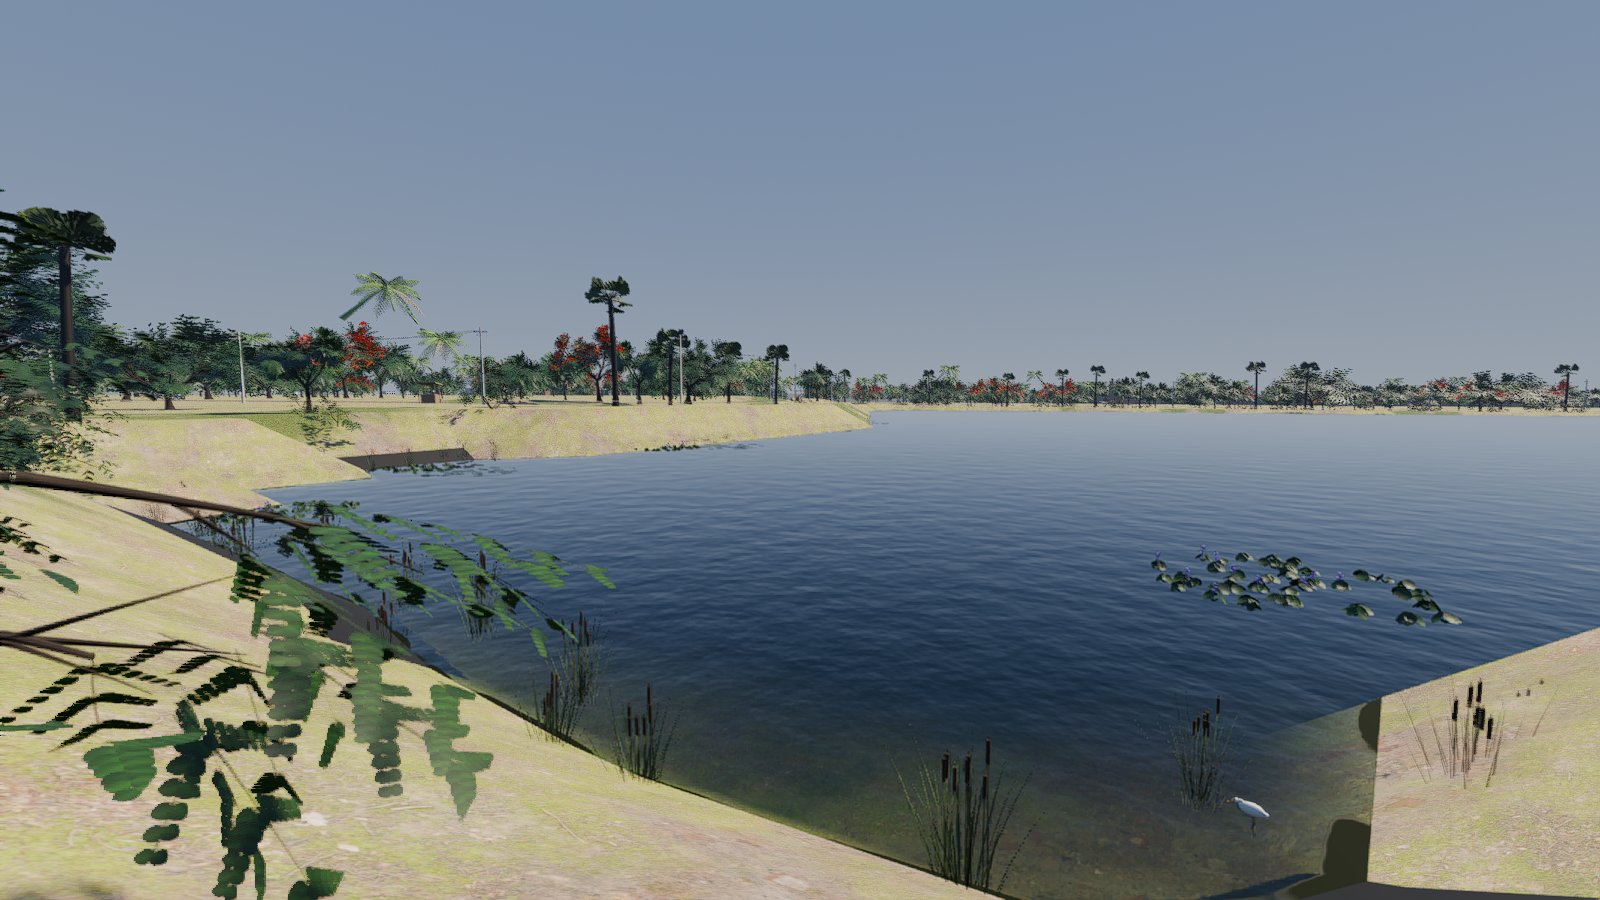
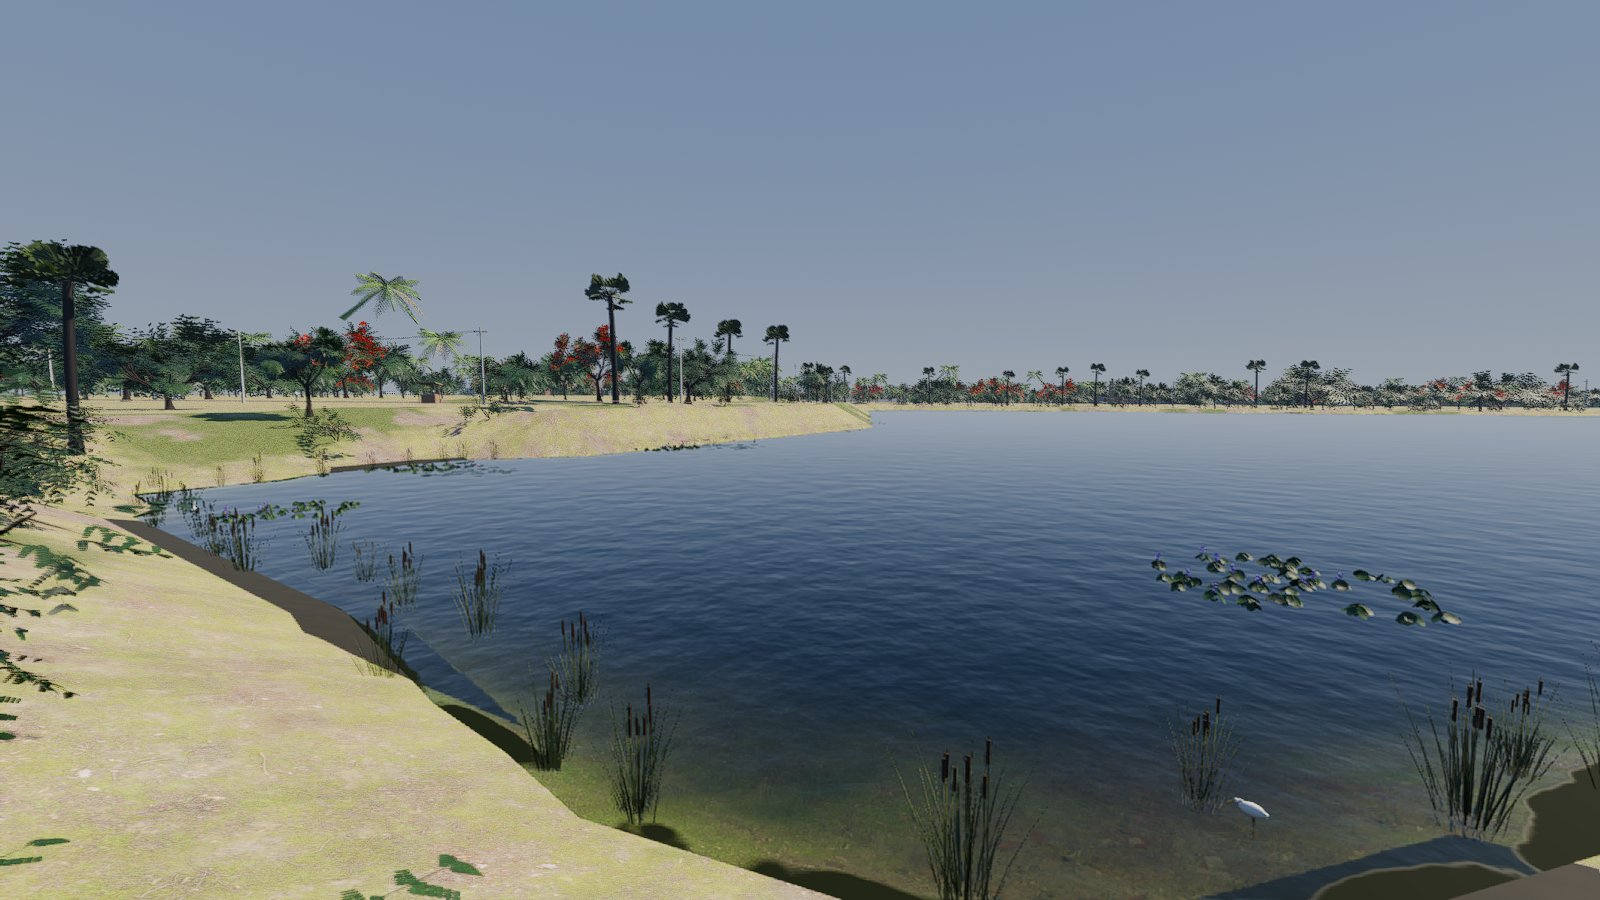
Ponds: stone bund visible all round the walkway lakes, gentle pond banks, ground under every pond
- walkway lakes: the ground under the stone pitching is kept 1.5 m under the water, so the 8 m terrain grid never rises through the stone; the pitching starts deeper under the water
- village ponds: banks no steeper than 1 in 3 for 20 m (no cliffs at the water); the shore strip follows the carved ground exactly; lighter wet mud
- tiles with nothing but water and shore are now written (129 ground-only tiles, listed in index.json) by rewater.py and chunk.py

diff --git a/tools/citygen/water.py b/tools/citygen/water.py
@@ -93,7 +93,7 @@ def load(wa, game, height):
                 outn[i] = nrm
             q = co + outn * 6.0
             nat = np.asarray(height(q[:, 0], q[:, 1]), dtype=float)
-            bank = np.maximum(nat, level + 0.66) if st == 0 else np.full(nb, bund)
+            bank = np.clip(nat, level + 0.66, level + 0.4 + 0.35 * 6.0) if st == 0 else np.full(nb, bund)
             rect = p.minimum_rotated_rectangle
             rc = np.asarray(rect.exterior.coords)[:4]
             e1, e2 = rc[1] - rc[0], rc[2] - rc[1]
@@ -130,19 +130,36 @@ def carve(H, X, Z, bodies):
             H[:] = np.where((ex >= 0.0) & (ex < 5.0), B - 0.05, H)
             continue                                   # no causeways through a temple tank
         else:
-            depth = np.clip(0.5 + 0.2 * (-d), 0.5, 3.0 if b["style"] == 1 else 2.2)
+            if b["style"] == 1:
+                depth = np.clip(1.5 + 0.2 * (-d), 1.5, 3.0)
+            else:
+                depth = np.clip(0.5 + 0.2 * (-d), 0.5, 2.2)
             H[:] = np.where(inside, np.minimum(H, L - depth), H)
             if b["style"] == 1:
                 top = B - 0.05
-                # under the stone pitching (drawn by the game) the ground keeps 0.6 m below it
-                bank = np.where(d < SLOPE, L - 0.6 + (top - L) * np.clip(d / SLOPE, 0, 1), top)
+                # under the stone pitching (drawn by the game) the ground stays low — 1.5 m under the water — so
+                # that, between the 8 m grid points, it never rises through the stone slope
+                bank = np.where(d < SLOPE + 1.0, L - 1.5, top)
                 f = np.clip((d - SLOPE - WALK) / 14.0, 0, 1)
                 bank = bank * (1 - f) + H * f
                 H[:] = np.where((~inside) & (d < SLOPE + WALK + 14.0), bank, H)
             else:
+                # a gentle bank: dry above the water, never steeper than 1 in 3 for 20 m (no cliffs at the edge)
+                H[:] = np.where((~inside) & (d < 20.0), np.minimum(H, L + 0.4 + 0.35 * d), H)
                 H[:] = np.where((~inside) & (d < 8.0), np.maximum(H, L + 0.12 + 0.09 * d), H)
         wet |= inside
     return wet
+
+
+def tile_keys(bodies, tile):
+    """Every tile a water body or its shore reaches (they all need ground, even with nothing else in them)."""
+    keys = set()
+    for b in bodies:
+        x0, z0, x1, z1 = b["poly"].buffer(reach(b) + 20).bounds
+        for cx in range(int(math.floor(x0 / tile)), int(math.floor(x1 / tile)) + 1):
+            for cz in range(int(math.floor(z0 / tile)), int(math.floor(z1 / tile)) + 1):
+                keys.add((cx, cz))
+    return keys
 
 
 def write(path, bodies):

diff --git a/tools/citygen/rewater.py b/tools/citygen/rewater.py
@@ -6,6 +6,7 @@ run for the ground, in about a minute.
 
     .venv/bin/python tools/citygen/rewater.py
 """
+import json
 import math
 import os
 import struct
@@ -46,17 +47,18 @@ def main():
     btree = STRtree([b["poly"] for b in bodies])
     print("water → %d bodies (%ds)" % (len(bodies), time.time() - t0), flush=True)
     TILE, HN, HSTEP = C.TILE, C.HN, C.HSTEP
-    keys = set()
-    for b in bodies:
-        x0, z0, x1, z1 = b["poly"].buffer(WATER.reach(b) + 20).bounds
-        for cx in range(int(math.floor(x0 / TILE)), int(math.floor(x1 / TILE)) + 1):
-            for cz in range(int(math.floor(z0 / TILE)), int(math.floor(z1 / TILE)) + 1):
-                keys.add((cx, cz))
-    done = 0
+    keys = WATER.tile_keys(bodies, TILE)
+    index = json.load(open(os.path.join(out, "index.json")))
+    done = added = 0
     for cx, cz in sorted(keys):
         fn = os.path.join(out, "chunks", "CBE_%d_%d.bin" % (cx, cz))
         if not os.path.exists(fn):
-            continue
+            # a tile with nothing but ground (the water and its shore come from city_water.gd)
+            empty = bytearray(b"CBE6") + struct.pack("<iii", cx, cz, HN) + bytes(4 * HN * HN) + struct.pack("<8i", *([0] * 8))
+            with open(fn, "wb") as f:
+                f.write(bytes(empty))
+            index["tiles"]["%d,%d" % (cx, cz)] = [0, 0]
+            added += 1
         buf = bytearray(open(fn, "rb").read())
         hn, = struct.unpack_from("<i", buf, 12)
         assert hn == HN
@@ -95,7 +97,10 @@ def main():
         os.replace(fn + ".tmp", fn)
         done += 1
     size = WATER.write(os.path.join(out, "water.bin"), bodies)
-    print("REWATER %d tiles re-shaped, water.bin %.1f KB, %ds" % (done, size / 1024, time.time() - t0), flush=True)
+    with open(os.path.join(out, "index.json"), "w") as f:
+        json.dump(index, f, separators=(",", ":"))
+    print("REWATER %d tiles re-shaped (%d new ground-only tiles), water.bin %.1f KB, %ds" % (
+        done, added, size / 1024, time.time() - t0), flush=True)
 
 
 if __name__ == "__main__":

diff --git a/tools/citygen/chunk.py b/tools/citygen/chunk.py
@@ -825,6 +825,8 @@ def run(cfg, roads_cfg):
 
     # ---- ground, then write -------------------------------------------------------------------------
     n_carved = 0
+    for key in WATER.tile_keys(bodies, TILE):                 # water needs ground round it, even in empty tiles
+        tile(key)
     for (cx, cz), t in tiles.items():
         gx = cx * TILE + np.arange(HN) * HSTEP
         gz = cz * TILE + np.arange(HN) * HSTEP
